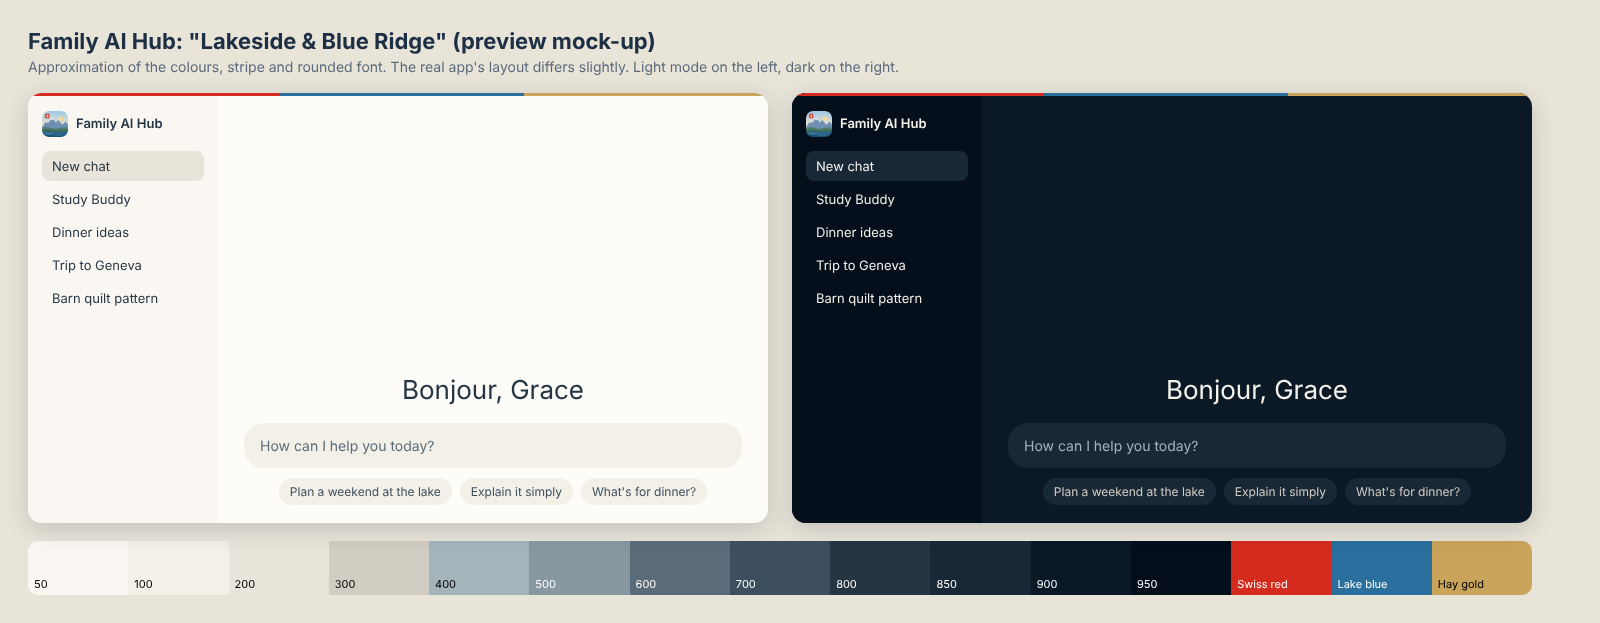
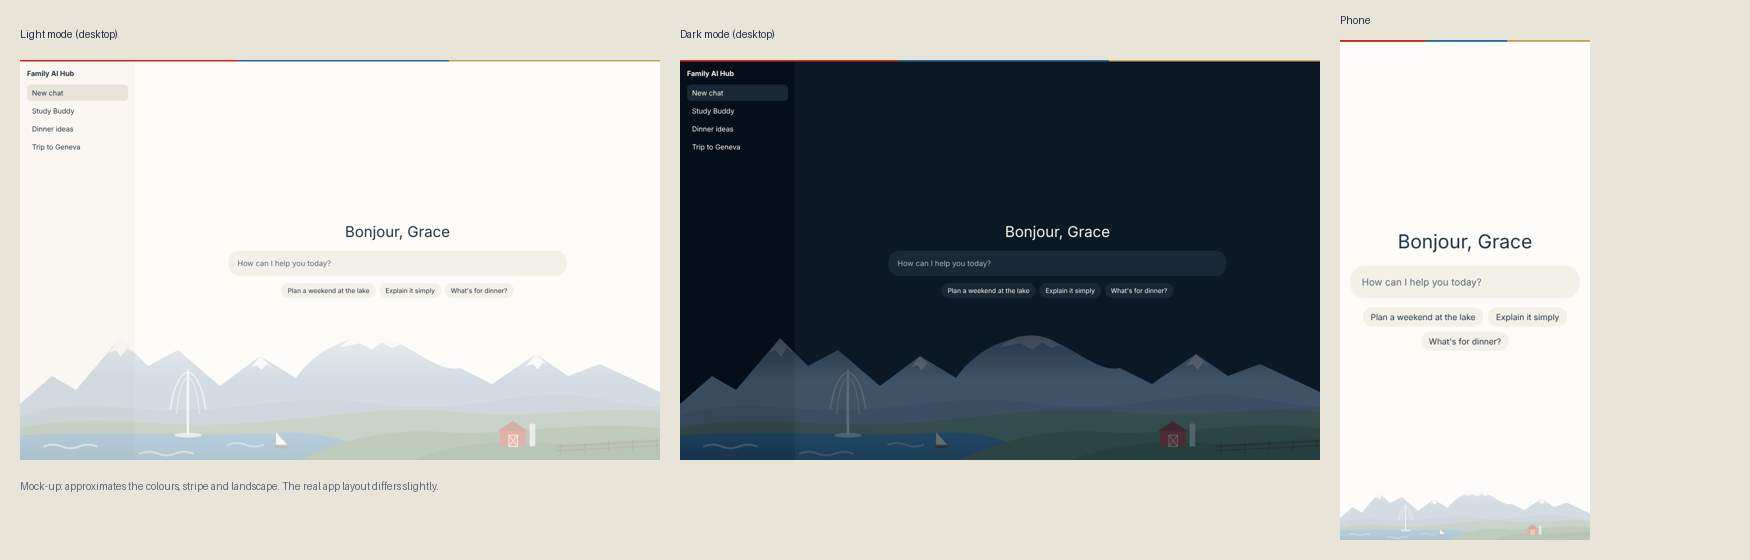
Theme: add faded Lac Léman / Blue Ridge landscape overlay
Claude-Session: https://claude.ai/code/session_01Qs56CyPwtQAdyeiDNLqDfK

diff --git a/theme/static/custom.css b/theme/static/custom.css
@@ -39,3 +39,31 @@ body::before {
 }
 
 ::selection { background: oklch(86% 0.07 75); color: oklch(21% 0.034 250); }
+
+/* Landscape: Lac Léman and the Alps (with the Jet d'Eau) on the left, Blue Ridge hills and a red barn on the right.
+   Drawn as a faded layer over the lower part of the page so it works whatever the app's own backgrounds are.
+   Tune the look with the three values below. */
+:root {
+  --landscape-height: min(44vh, 460px);
+  --landscape-opacity: 0.38;
+  --landscape-opacity-dark: 0.38;
+}
+body::after {
+  content: "";
+  position: fixed;
+  left: 0; right: 0; bottom: 0;
+  height: var(--landscape-height);
+  background: url("/static/family-landscape.svg") center bottom / cover no-repeat;
+  -webkit-mask-image: linear-gradient(to top, #000 0%, #000 45%, transparent 100%);
+          mask-image: linear-gradient(to top, #000 0%, #000 45%, transparent 100%);
+  opacity: var(--landscape-opacity);
+  mix-blend-mode: multiply;
+  pointer-events: none;
+  z-index: 99990;
+}
+html.dark body::after { opacity: var(--landscape-opacity-dark); mix-blend-mode: screen; }
+@media (max-width: 640px) {
+  /* phones: show the whole panorama as a strip along the bottom */
+  body::after { height: auto; aspect-ratio: 1600 / 520; background-size: 100% 100%; }
+}
+@media print { body::after, body::before { display: none; } }
